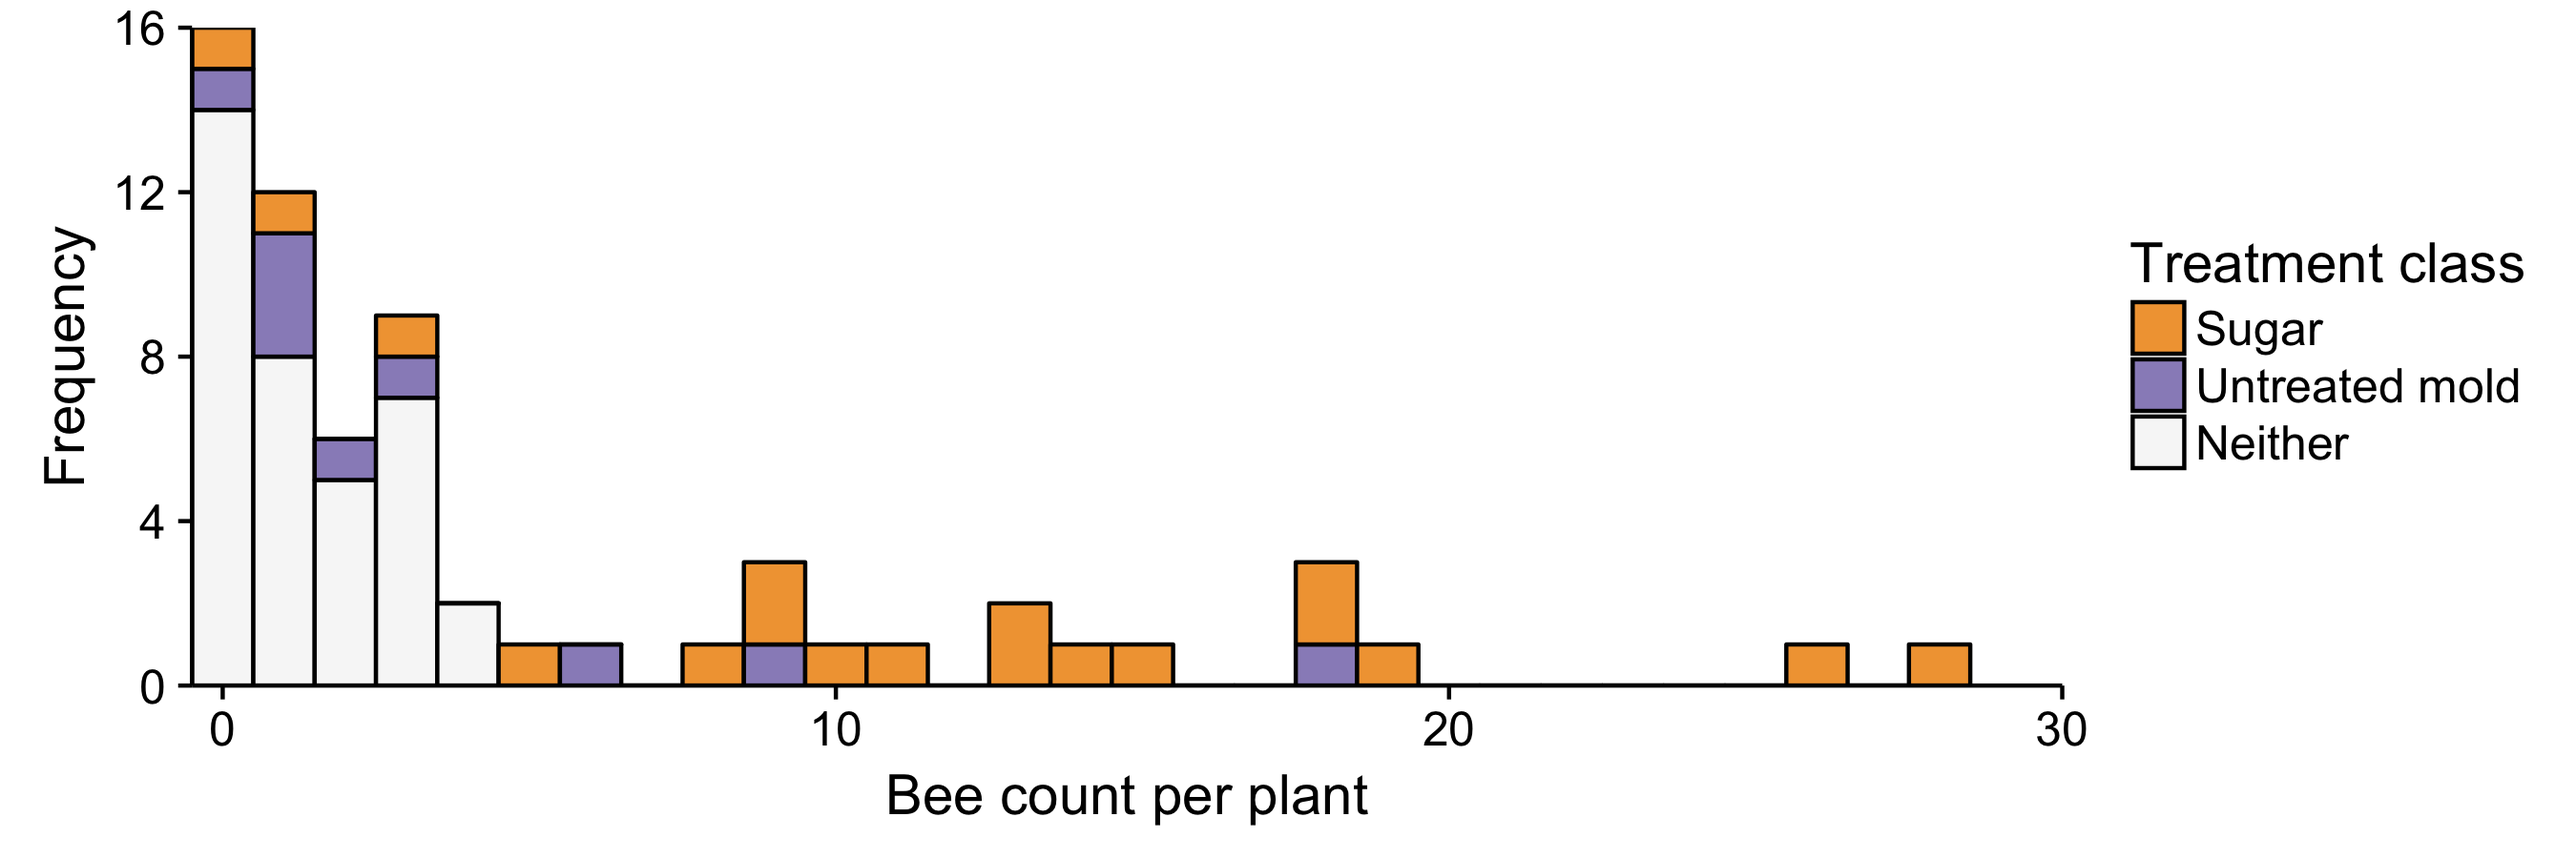
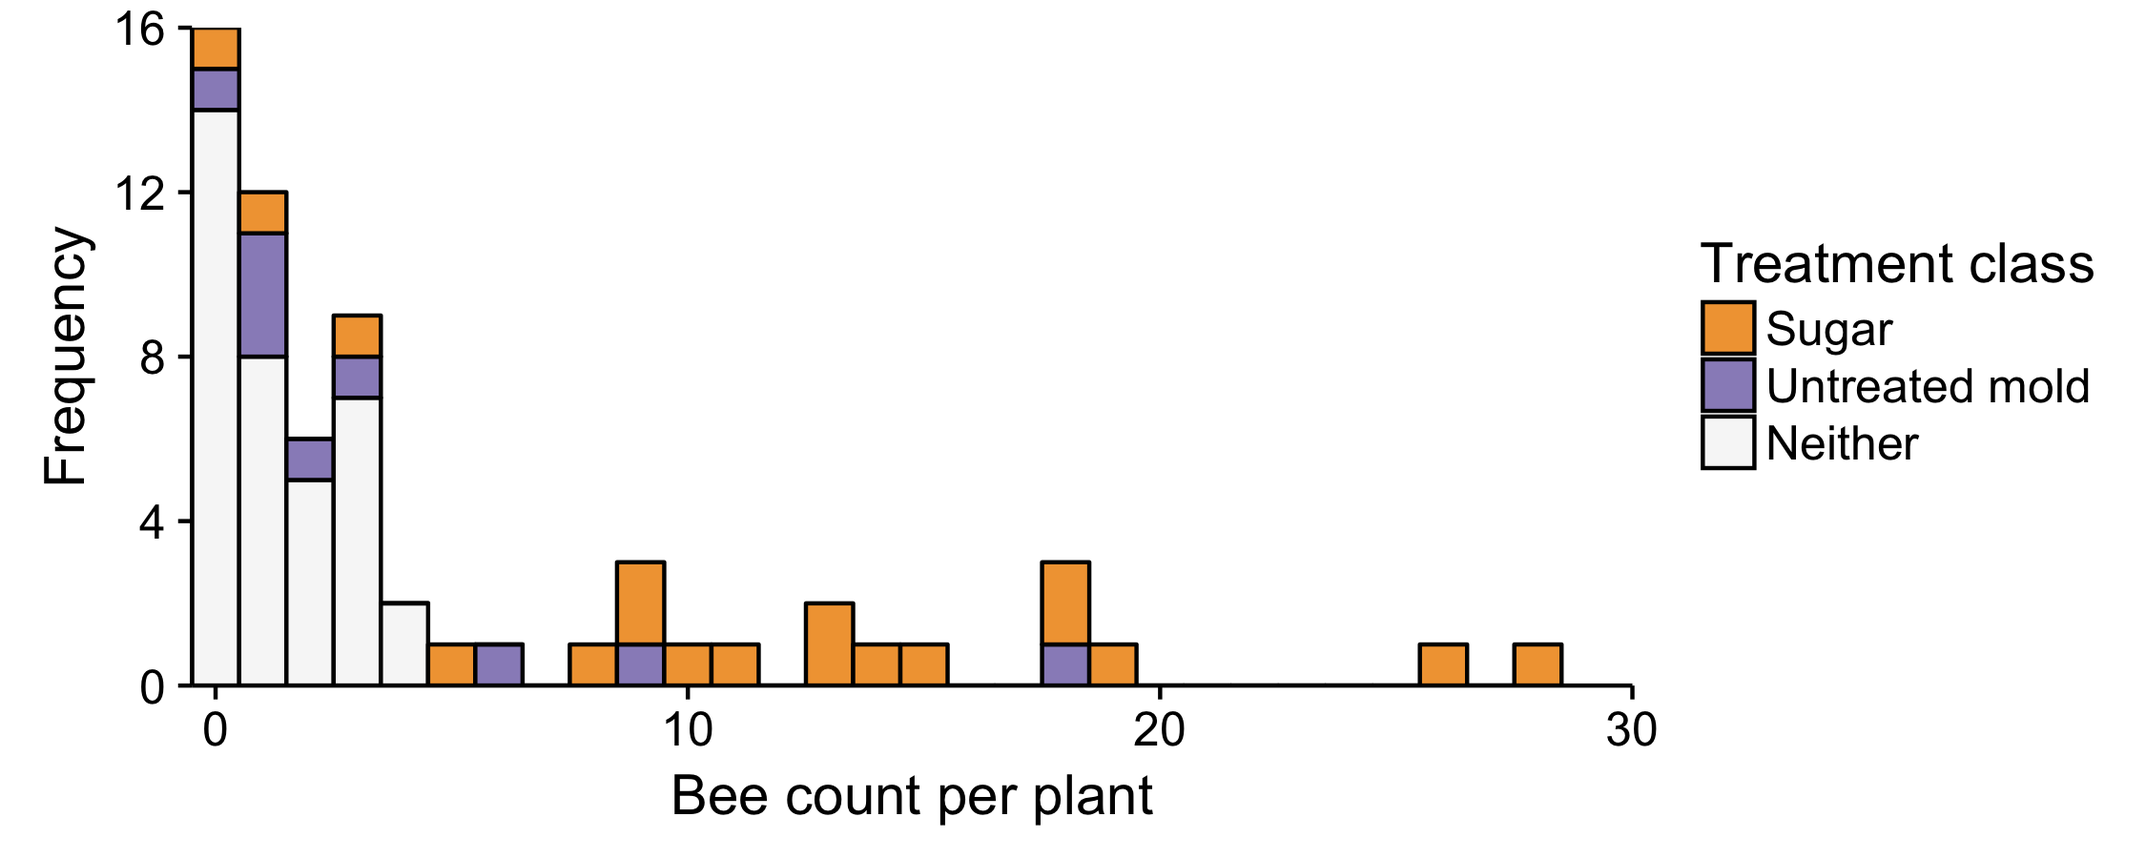
size

diff --git a/mixed-models.md b/mixed-models.md
@@ -38,7 +38,7 @@ plot = d %>%
   xlab("Bee count per plant") + 
   ylab("Frequency")
 
-ggsave("histogram3A.png", height = 3, width = 9, dpi = 300)
+ggsave("histogram3A.png", height = 3, width = 7.5, dpi = 300)
 
 d %>% 
   group_by(Plant_Code, `Treatment class`) %>% 
